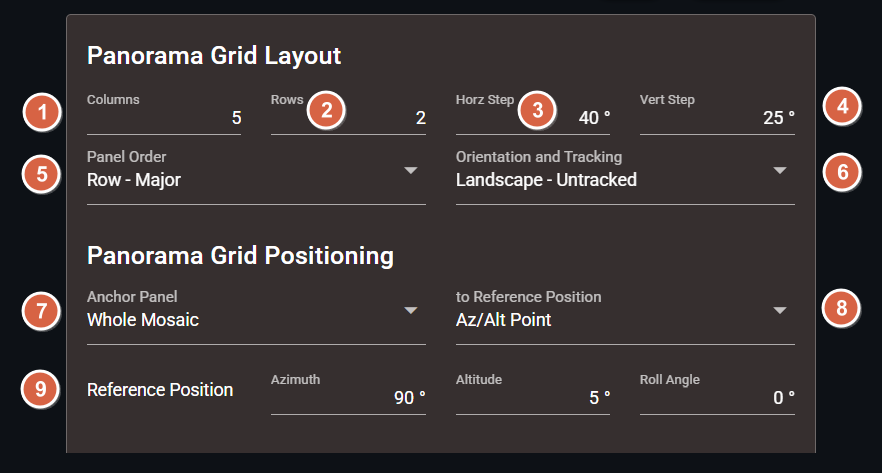
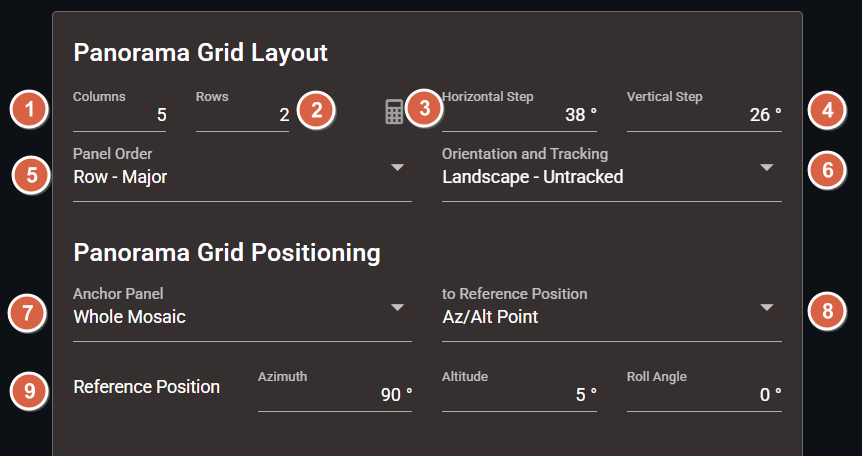
fix(pano): Add a Panel Spacing Calculator to determine your sensor’s field of view (FOV) and the recommended panel step for a desired image overlap.

diff --git a/pilot/src/components/PanoCalculator.vue b/pilot/src/components/PanoCalculator.vue
@@ -1,0 +1,178 @@
+
+
+<template>
+  <q-card style="width: 350px" class="q-px-md q-pb-md">
+    <div class="text-h6 q-mb-xs q-mt-md">
+      Panel Spacing Calculator 
+    </div>
+
+    <q-select
+      v-model="sensor_size" label="Sensor Size" new-value-mode="add-unique" use-input use-chips dense emit-value map-options
+      :options="['Full Frame (36 × 24 mm)', 'APS-C / IMX571 (23.5 × 15.7 mm)', 'Micro Four Thirds (17.3 × 13.0 mm)', 'IMX585 (11.2 × 6.3 mm)', 'IMX533 (11.3 × 11.3 mm)']"
+    />
+
+    <q-select
+      v-model="focal_length" class="q-mt-sm" label="Focal Length" dense use-chips
+      :options="['14 mm', '24 mm', '35 mm', '50 mm', '85 mm', '100 mm', '135 mm', '200 mm', '300 mm', '400 mm', '500 mm', '600 mm', '800 mm']"
+    />
+
+    <q-select
+      v-model="panel_overlap"  class="q-mt-sm" label="Overlap" dense use-chips
+      :options="['10%', '20%', '30%', '40%', '50%', '60%', '70%', '80%']"
+    />
+
+    <div v-if="show_result">
+        <div class="text-subtitle2 text-grey-6 q-mt-md q-pt-lg">
+          Calculated Sensor Field of View:
+        </div>    
+        <div class="row q-col-gutter-lg  items-center  ">
+          <q-input class="col-6" label="Horizontal FOV" suffix="°" readonly v-model="calc_hFOV_display" input-class="text-right" dense/>
+          <q-input class="col-6" label="Vertical FOV" suffix="°" readonly v-model="calc_vFOV_display" input-class="text-right" dense/>
+        </div>
+        <div class="text-subtitle2 text-grey-6 q-mt-md">
+          Recommended Panel Step ({{panel_overlap}} overlap):
+        </div>    
+        <div class="row q-col-gutter-lg  items-center  ">
+          <q-input class="col-6" label="Horizontal Step" suffix="°" readonly v-model="calc_hstep_display" input-class="text-right" dense/>
+          <q-input class="col-6" label="Vertical Step" suffix="°" readonly v-model="calc_vstep_display" input-class="text-right" dense/>
+        </div>
+
+    </div>    
+    <div class="row q-gutter-sm  q-mt-md justify-center">
+      <q-btn class="col-5" label="Cancel"  outline color="grey-7" v-close-popup />
+      <q-btn v-if="show_result" class="col-5" label="Apply" outline color="primary" @click="onApply" v-close-popup/>
+    </div>
+
+  </q-card>
+</template>
+
+<script setup lang="ts">
+// import axios from 'axios'
+import { onMounted, ref, computed } from 'vue'
+import { useConfigStore } from 'stores/config';
+import { useDeviceStore } from 'src/stores/device';
+// import { debounce } from 'quasar'
+
+const dev = useDeviceStore()
+const cfg = useConfigStore()
+
+const sensor_size = ref<string>(cfg.sensor_size)
+const focal_length = ref<string>(`${cfg.focal_length} mm`)
+const panel_overlap = ref<string>(cfg.panel_overlap)
+
+// ---------------- Helper functions
+function parseFirstNumber(str?: string): number | null {
+  if (!str) return null
+  const m = str.match(/[\d.]+/)
+  return m ? Number(m[0]) : null
+}
+
+function parseSensorXY(str?: string): { x: number | null; y: number | null } {
+  if (!str) return { x: null, y: null }
+
+  // supports: 36 × 24, 36x24, 36 X 24
+  const m = str.match(/([\d.]+)\s*[×xX]\s*([\d.]+)/)
+  if (!m) return { x: null, y: null }
+
+  return {
+    x: Number(m[1]),
+    y: Number(m[2])
+  }
+}
+
+// ---------------- Computed functions
+const sensor_size_x = computed<number | null>(() => {
+  return parseSensorXY(sensor_size.value).x
+})
+
+const sensor_size_y = computed<number | null>(() => {
+  return parseSensorXY(sensor_size.value).y
+})
+
+const focal_mm = computed<number | null>(() => {
+  return parseFirstNumber(focal_length.value)
+})
+
+const overlap_frac = computed<number | null>(() => {
+  const v = parseFirstNumber(panel_overlap.value)
+  return v !== null ? v / 100 : null
+})
+
+function calcFovDeg(sensor_mm: number, focal_mm: number): number {
+  return 2 * (180 / Math.PI) * Math.atan(sensor_mm / (2 * focal_mm))
+}
+
+const calc_hFOV = computed<number>(() => {
+  if (!sensor_size_x.value || !focal_mm.value) return NaN
+  return calcFovDeg(sensor_size_x.value, focal_mm.value)
+})
+
+const calc_vFOV = computed<number>(() => {
+  if (!sensor_size_y.value || !focal_mm.value) return NaN
+  return calcFovDeg(sensor_size_y.value, focal_mm.value)
+})
+
+const calc_hstep = computed<number>(() => {
+  if (!calc_hFOV.value || overlap_frac.value === null) return NaN
+  return calc_hFOV.value * (1 - overlap_frac.value)
+})
+
+const calc_vstep = computed<number>(() => {
+  if (!calc_vFOV.value || overlap_frac.value === null) return NaN
+  return calc_vFOV.value * (1 - overlap_frac.value)
+})
+
+const calc_hFOV_display = computed(() =>
+  isFinite(calc_hFOV.value) ? calc_hFOV.value.toFixed(2) : ''
+)
+
+const calc_vFOV_display = computed(() =>
+  isFinite(calc_vFOV.value) ? calc_vFOV.value.toFixed(2) : ''
+)
+
+const calc_hstep_display = computed(() =>
+  isFinite(calc_hstep.value) ? calc_hstep.value.toFixed(2) : ''
+)
+
+const calc_vstep_display = computed(() =>
+  isFinite(calc_vstep.value) ? calc_vstep.value.toFixed(2) : ''
+)
+
+const show_result = computed<boolean>(() => {
+  return [
+    sensor_size_x.value,
+    sensor_size_y.value,
+    focal_mm.value,
+    overlap_frac.value,
+    calc_hFOV.value,
+    calc_vFOV.value,
+    calc_hstep.value,
+    calc_vstep.value
+  ].every(v => typeof v === 'number' && isFinite(v))
+})
+
+
+// ----------------- Lifecycle Functions
+
+onMounted(async () => {
+  const shouldFetch =  dev.restAPIConnected && dev.restAPIConnectedAt &&cfg.fetchedAt < dev.restAPIConnectedAt
+  if (shouldFetch) await cfg.configFetch()
+})
+
+
+async function onApply() {
+  // simplest: reset inputs to defaults or close dialog
+  // example reset:
+  const payload = { 
+    hstep: calc_hstep.value, 
+    vstep: calc_vstep.value,
+    sensor_size: sensor_size.value,
+    panel_overlap: panel_overlap.value,
+    focal_length: parseFirstNumber(focal_length.value) || 35
+  }
+  await cfg.configUpdate(payload)
+}
+
+</script>
+
+

diff --git a/pilot/src/components/PanoSettings.vue b/pilot/src/components/PanoSettings.vue
@@ -4,10 +4,14 @@
     <q-card flat bordered class="q-pa-md full-width">
         <div class="text-h6">Panorama Grid Layout</div>
         <div class="row q-col-gutter-lg  items-center q-pt-sm">
-            <q-input class="col-3" v-bind="bindField('cols', 'Columns')" type="number" input-class="text-right" dense/>
-            <q-input class="col-3" v-bind="bindField('rows', 'Rows')" type="number" input-class="text-right" dense/>
-            <q-input class="col-3" v-bind="bindField('hstep', 'Horz Step', '°')" type="number" input-class="text-right" dense/>
-            <q-input class="col-3" v-bind="bindField('vstep', 'Vert Step', '°')" type="number" input-class="text-right" dense/>
+            <q-input class="col-2" v-bind="bindField('cols', 'Columns')" type="number" input-class="text-right" dense/>
+            <q-input class="col-2" v-bind="bindField('rows', 'Rows')" type="number" input-class="text-right" dense/>
+            <div class="col-1"></div>
+            <q-btn  class="col-1 self-end q-pt-sm" size="md"  text-color="grey-6"  flat rounded dense icon="mdi-calculator">
+              <q-popup-proxy><PanoCalculator class=""/></q-popup-proxy>
+            </q-btn>
+            <q-input class="col-3" v-bind="bindField('hstep', 'Horizontal Step', '°')" type="number" input-class="text-right" dense/>
+            <q-input class="col-3" v-bind="bindField('vstep', 'Vertical Step', '°')" type="number" input-class="text-right" dense/>
         </div>
         <div class="row q-col-gutter-lg  items-center q-pt-lg">
             <q-select
@@ -78,6 +82,7 @@ import { useConfigStore } from 'stores/config';
 import { useDeviceStore } from 'src/stores/device';
 import { debounce } from 'quasar'
 import PanoNavigation from 'src/components/PanoNavigation.vue'
+import PanoCalculator from 'src/components/PanoCalculator.vue'
 
 const dev = useDeviceStore()
 const cfg = useConfigStore()

diff --git a/pilot/src/stores/config.ts b/pilot/src/stores/config.ts
@@ -44,6 +44,8 @@ export const useConfigStore = defineStore('config', {
     focal_ratio: 11,
 
     // Panorama
+    sensor_size: 'Full Frame (36 × 24 mm)', 
+    panel_overlap: '30%', 
     show_panels: false,
     cols: 3,
     rows: 1,

diff --git a/docs/pilot.md b/docs/pilot.md
@@ -965,6 +965,8 @@ Changes made in Alpaca Pilot immediately update the active panorama grid in the 
 - **① Columns `"cols":`**  Number of horizontal panels across the panorama. Range: **2–14**. 
 - **② Rows `"rows":`**  Number of vertical panels in the panorama. Range: **1–3**.
 
+- **③ Panel Spacing Calculator:**  Used to calculate **Sensor Field of View** including recommended Horizontal and Vertical Step. See below.
+
 - **③ Horizontal Step `"hstep":`**  Angular distance, in **decimal degrees**, between the centres of adjacent horizontal panels. Factor in FOV overlap.
 
 - **④ Vertical Step `"vstep":`**  Angular distance, in **decimal degrees**, between the centres of adjacent vertical panels. Factor in FOV overlap.
@@ -1047,77 +1049,20 @@ Once a panorama grid is defined, you will probably want to verify its coverage a
 
 ![Alpaca Pilot Pano Navigation](images/pilot-pano2.png)
 
-### 3.1 Calculating for theoretical panel overlap
-The Panorama Grid is designed to be simple. Rather than specifying sensor size, resolution, desired overlap and lens parameters, it uses just two angular steps, `hstep` and `vstep` to define the spacing between panels. These fields effect the horizontal and vertical spacing of the panels from the cameras field of view.
+### 3.1 Panel Spacing Calculator
+The Panorama Grid is designed to be simple, with the minimum number of parameters. It uses just two angular steps, `hstep` and `vstep` to define the spacing between panels. These fields effect the horizontal and vertical spacing of the panels from the cameras field of view.
 
-To calculate the theoretical values for `hstep` and `vstep`:
-* Use a field-of-view calculator such as [Astronomy Tools](https://astronomy.tools/calculators/field_of_view/)
-   * Switch to Imaging Mode and pick any target object.
-   * Enter your **focal length (mm)** and **camera model**.
-   * Note the horizontal and vertical FOV in degrees.
-   * `hstep` and `vstep` are calculated as  **hstep = FOV × (1 − overlap)**.
-* Set `hstep` to a fraction of the horizontal FOV to achieve the desired overlap. 
-   * For example, to acheive 20% overlap, you would set `hstep` to 80% of the horizontal FOV. 
-   * From the calculator below 80% of 54.38 would be 43.5.
-* Similarly, set `vstep` as a fraction of the vertical FOV.
-   * From the calculator below 80% of 37.83 would be 30.3. 
-* So to achieve 20% overlap
-   * You would set `{ "hstep": 43.5 , "vstep": 30.3 }`
- 
+A calulator is provided calculate these properties:
+* Click on the Calculator icon on the Panorama Settings Card
+* Select your sensor size, or enter its dimensions in mm.
+* Select your lens focal length in mm.
+* Select the percentage of overlap between each panel
+* The calculator with determine the Sensors Field of View in Degrees as well as the Recommended Panel Step, given your desired overlap.
+* Click `Apply` to set the Horizontal Step and Vertical Step for the Panorama Grid. This will also store the Sensor Size, Focal Length and Overlap for next time you use the calculator.
 
-![Astronomy Tools](./images/pilot-panotools.png)
+![Astronomy Tools](./images/pilot-panocalc.png)
 
-### 3.2 Example Panorama Step Sizes (`hstep` and `vstep`)
-
-The following tables provide **example values** for horizontal and vertical panorama step sizes based on common sensor formats and focal lengths. These values are intended as a starting point when defining a panorama grid and assume rectilinear lenses with minimal distortion.
-
-**Full Frame (36 × 24 mm)**: 
-This table assumes a full-frame sensor and is representative of cameras such as the Canon R5, Nikon Z8/Z9, or Sony α7 series.
-
-| Sensor     | Focal Length | Field of View | Overlap | hstep (°) | vstep (°) |
-| ---------- | ------------ | ------------- | ------- | --------- | --------- |
-| Full Frame | 14 mm        | 104° × 81°    | 20%     | 83.2      | 64.8      |
-| Full Frame | 14 mm        | 104° × 81°    | 40%     | 62.4      | 48.6      |
-| Full Frame | 24 mm        | 84° × 62°     | 20%     | 67.2      | 49.6      |
-| Full Frame | 24 mm        | 84° × 62°     | 40%     | 50.4      | 37.2      |
-| Full Frame | 35 mm        | 63° × 44°     | 20%     | 50.4      | 35.2      |
-| Full Frame | 35 mm        | 63° × 44°     | 40%     | 37.8      | 26.4      |
-| Full Frame | 50 mm        | 40° × 27°     | 20%     | 32.0      | 21.6      |
-| Full Frame | 50 mm        | 40° × 27°     | 40%     | 24.0      | 16.2      |
-| Full Frame |	100 mm	    | 20° × 14°	  | 20%     | 16.0      | 11.2      |
-| Full Frame |	100 mm	    | 20° × 14°	  | 40%     | 12.0      | 8.4       |
-
-**APS-C (≈23.5 × 15.6 mm)**: This table assumes a typical APS-C sensor with a ~1.5× crop factor, as found in many DSLR and mirrorless cameras.
-
-| Sensor | Focal Length | Field of View | Overlap | hstep (°) | vstep (°) |
-| ------ | ------------ | ------------- | ------- | --------- | --------- |
-| APS-C  | 14 mm        | 76° × 56°     | 20%     | 60.8      | 44.8      |
-| APS-C  | 14 mm        | 76° × 56°     | 40%     | 45.6      | 33.6      |
-| APS-C  | 24 mm        | 53° × 37°     | 20%     | 42.4      | 29.6      |
-| APS-C  | 24 mm        | 53° × 37°     | 40%     | 31.8      | 22.2      |
-| APS-C  | 35 mm        | 37° × 25°     | 20%     | 29.6      | 20.0      |
-| APS-C  | 35 mm        | 37° × 25°     | 40%     | 22.2      | 15.0      |
-| APS-C  | 50 mm        | 26° × 17°     | 20%     | 20.8      | 13.6      |
-| APS-C  | 50 mm        | 26° × 17°     | 40%     | 15.6      | 10.2      |
-| APS-C  | 100 mm	      | 20° × 14°	    | 20%     | 10.4      | 7.2       |
-| APS-C  | 100 mm	      | 20° × 14°	    | 40%     | 7.8       | 5.4       |
-
-**IMX585 (11.2 × 6.3 mm)**: This table assumes the Sony **IMX585** sensor, commonly used in astronomy cameras. Because of the much smaller sensor size, step values decrease rapidly with focal length, and overlap becomes more sensitive to mechanical and optical tolerances.
-
-| Sensor | Focal Length | Field of View | Overlap | hstep (°) | vstep (°) |
-| ------ | ------------ | ------------- | ------- | --------- | --------- |
-| IMX585 | 14 mm        | 44° × 25°     | 20%     | 35.2      | 20.0      |
-| IMX585 | 14 mm        | 44° × 25°     | 40%     | 26.4      | 15.0      |
-| IMX585 | 24 mm        | 26° × 15°     | 20%     | 20.8      | 12.0      |
-| IMX585 | 24 mm        | 26° × 15°     | 40%     | 15.6      | 9.0       |
-| IMX585 | 35 mm        | 18° × 10°     | 20%     | 14.4      | 8.0       |
-| IMX585 | 35 mm        | 18° × 10°     | 40%     | 10.8      | 6.0       |
-| IMX585 | 50 mm        | 12° × 7°      | 20%     | 9.6       | 5.6       |
-| IMX585 | 50 mm        | 12° × 7°      | 40%     | 7.2       | 4.2       |
-| IMX585 | 100 mm	      | 6° × 3.5°	    | 20%     | 4.8       | 2.8       |
-| IMX585 | 100 mm	      | 6° × 3.5°	    | 40%     | 3.6       | 2.1       |
-
-### 3.3 Verifying actual Panel overlap
+### 3.2 Verifying actual Panel overlap
 The actual panel overlap may differ from theoretical calculations, especially with wide-angle lenses. Use the verification procedure below to confirm with your setup before your imaging session begins.
 
 To check the horizontal and vertical overlap:
@@ -1127,7 +1072,7 @@ To check the horizontal and vertical overlap:
 * Slew to the adjacent horizontal panel and check the overlap. Adjust `hstep` as needed.
 * Repeat for vertical panels to confirm `vstep` ensures sufficient overlap.
 
-### 3.4 Verifying panorama coverage
+### 3.3 Verifying panorama coverage
 Once on site, you can confirm that your panorama grid captures the full scene and desired foreground, and reaches the sky elevation needed for your selected celestial target.
 
 To check the horizontal extent of the scene:

diff --git a/docs/release-notes-v2.1.0.md b/docs/release-notes-v2.1.0.md
@@ -34,6 +34,7 @@
 
 ## What's new in v2.1.0 
 - **[Panorama Settings]** Add flexible Panorama Grid for Landscape (untracked), Sky (Horizon-Locked), Sky (tracked), that can be revisted, reordered and reused.
+- **[Panorama Calculator]** Use the Panel Spacing Calculator to determine your sensor’s field of view (FOV) and the recommended panel step for a desired image overlap.
 - **[Panorama Automation]** Add device actions PanoGrid and PanoSlew for automation in Nina Advanced Sequencer and CCDScripts
 - **[Panel Navigation]** Add optional Panel navigation controls on the main dashboard
 - **[Advanced Sequencer]** Add Panorama Actions for use in Nina's Advanced Sequencer and Templates.
